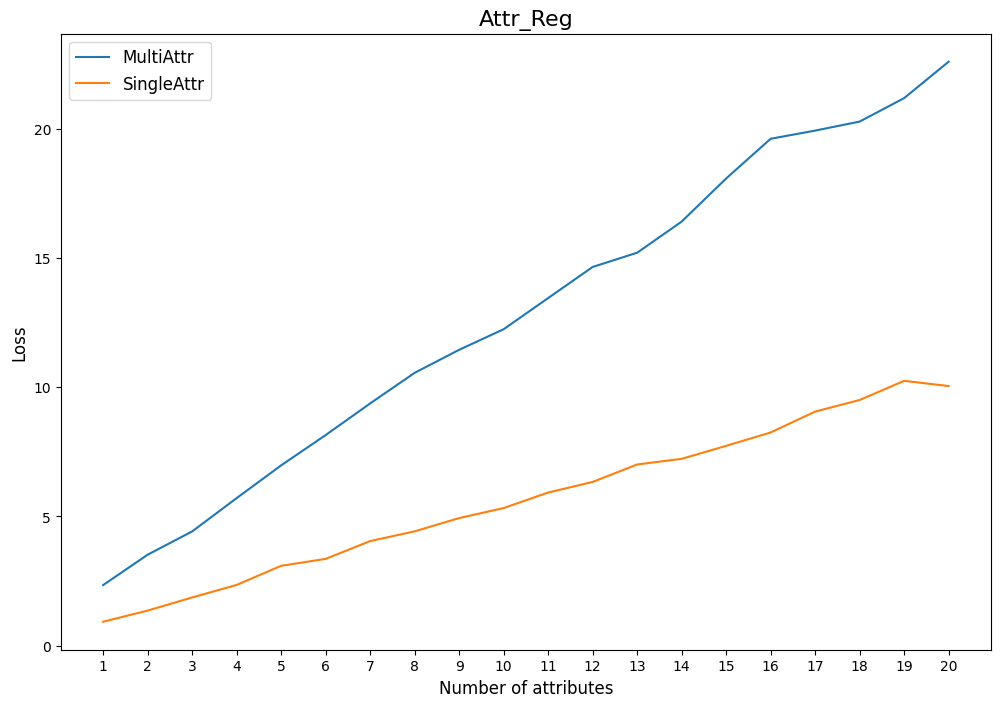
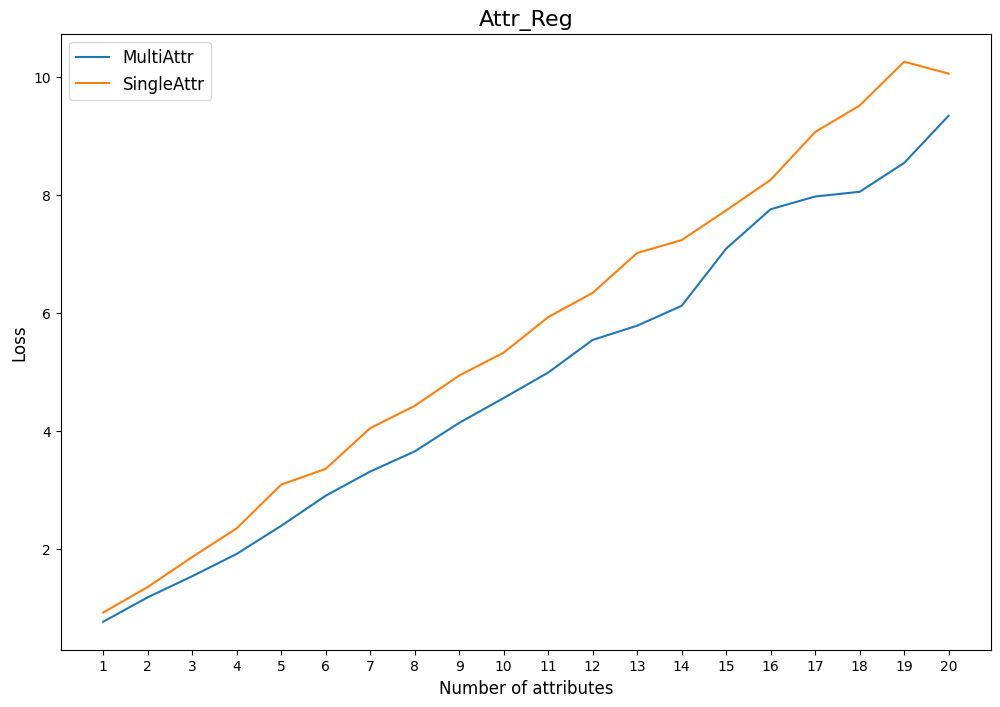
New training method: one attribute at a time

diff --git a/trainer.py b/trainer.py
@@ -121,15 +121,19 @@ class Trainer(nn.Module):
         # corr_vec = np.abs(self.corr_ma[attr_num:attr_num+1]) # Original, below is the experimental one
         # Enable this again for exp
         # attr_num = attr_num.cpu()
+
         corr_vec = np.abs(self.corr_ma[attr_num, :])
         corr_vec[corr_vec>=threshold] = 1
         return 1 - corr_vec
 
-    def get_correlation_multi(self, attr_nums, threshold=1):
+    def get_correlation_multi(self, attr_nums, threshold=1, coeffs=None):
         if self.corr_ma is None:
             lbls = np.load(self.label_file)
             self.corr_ma = np.corrcoef(lbls.transpose())
             self.corr_ma[np.isnan(self.corr_ma)] = 0
+
+        if coeffs is not None:
+            attr_nums = [a[0].item() for a in coeffs.nonzero()]
 
         corr_vec = np.abs(self.corr_ma[attr_nums, :])
         corr_vec[corr_vec>=threshold] = 1
@@ -140,7 +144,11 @@ class Trainer(nn.Module):
     def get_coeff(self, x):
         sign_0 = F.relu(x-0.5).sign()
         sign_1 = F.relu(0.5-x).sign()
-        return sign_0*(-x) + sign_1*(1-x)
+
+        coeffs = sign_0*(-x) + sign_1*(1-x)
+        attrs_idx = torch.randint(0, coeffs.shape[0], (1,), device=DEVICE)
+        coeffs[torch.arange(coeffs.shape[0], device=DEVICE) != attrs_idx] = 0
+        return coeffs
 
     def compute_loss(self, w, mask_input, n_iter):
         self.w_0 = w
@@ -228,8 +236,10 @@ class Trainer(nn.Module):
 
         # Get scaling factor
         coeff = self.get_coeff(attr_pb_0)
-        # coeff = torch.tensor([-1,-1]).to(device)
+        coeff_idx = coeff.nonzero(as_tuple=True)[0].tolist()
+
         target_pb = torch.clamp(attr_pb_0 + coeff, 0, 1).round()
+        target_pb = target_pb[coeff_idx]
 
         if 'alpha' in self.config and not self.config['alpha']:
             coeff = 2 * target_pb.type_as(attr_pb_0) - 1 
@@ -252,8 +262,9 @@ class Trainer(nn.Module):
         T_coeff = target_pb.size(0)/(target_pb.sum(0) + 1e-8)
         F_coeff = target_pb.size(0)/(target_pb.size(0) - target_pb.sum(0) + 1e-8)
         mask_pb = T_coeff.float() * target_pb + F_coeff.float() * (1-target_pb)
-        self.loss_pb = self.BCEloss(predict_lbl_1[torch.arange(predict_lbl_1.shape[0]), self.attr_nums],
-                                    target_pb, reduction='none')*mask_pb
+
+        pred_pb = predict_lbl_1[torch.arange(predict_lbl_1.shape[0]), self.attr_nums]
+        self.loss_pb = self.BCEloss(pred_pb[coeff_idx], target_pb, reduction='none')*mask_pb
         self.loss_pb = self.loss_pb.mean()
 
         # Latent code recon
@@ -261,7 +272,7 @@ class Trainer(nn.Module):
 
         # Reg loss
         threshold_val = 1 if 'corr_threshold' not in self.config else self.config['corr_threshold']
-        mask = torch.tensor(self.get_correlation_multi(self.attr_nums, threshold=threshold_val)).type_as(predict_lbl_0)
+        mask = torch.tensor(self.get_correlation_multi(self.attr_nums, threshold=threshold_val, coeffs=coeff)).type_as(predict_lbl_0)
         # mask = mask.repeat(predict_lbl_0.size(0), 1)  # We dont need to repeat the correlation mask in multi
         self.loss_reg = self.MSEloss(predict_lbl_1*mask, predict_lbl_0*mask)
         

diff --git a/evaluation.py b/evaluation.py
@@ -33,7 +33,7 @@ from constants import ATTR_TO_NUM
 
 
 parser = argparse.ArgumentParser()
-parser.add_argument('--config', type=str, default='eval', help='Path to the config file.')
+parser.add_argument('--config', type=str, default='new_train', help='Path to the config file.')
 parser.add_argument('--latent_path', type=str, default='./data/celebahq_dlatents_psp.npy', help='dataset path')
 parser.add_argument('--label_file', type=str, default='./data/celebahq_anno.npy', help='label file path')
 parser.add_argument('--stylegan_model_path', type=str, default='./pixel2style2pixel/pretrained_models/psp_ffhq_encode.pt', help='stylegan model path')
@@ -102,7 +102,7 @@ testdata_dir = './data/ffhq/'
 n_steps = 5
 scale = 2.0
 
-save_dir = './outputs/evaluation/'
+save_dir = './outputs/evaluation/new_train'
 os.makedirs(save_dir, exist_ok=True)
 
 log_dir = os.path.join(opts.log_path, opts.config) + '/'
@@ -292,7 +292,7 @@ def all_n_experiment(multi=True, single=True):
         losses_m = np.zeros((len(attrs), 4))
         for i in range(1,21):
             losses_m[i-1] = eval_multi_n(i)
-        np.save("outputs/evaluation/n_multi.npy",losses_m)
+        np.save("outputs/evaluation/n_multi_new.npy",losses_m)
 
     if single:
         losses_s = np.zeros((len(attrs), 4))
@@ -302,7 +302,7 @@ def all_n_experiment(multi=True, single=True):
 
 
 def plot_n_comparison():
-    multi = np.load("outputs/evaluation/n_multi.npy").T
+    multi = np.load("outputs/evaluation/n_multi_new.npy").T
     single = np.load("outputs/evaluation/n_single.npy").T
 
     loss_titles = ["Total", "Class", "Attr_Reg", "Identity_Recon"]
@@ -351,13 +351,14 @@ def plot_overall():
     ax.set_yscale('log')
     ax.legend()
 
-    plt.savefig(f"out_images/eval_overall.png", bbox_inches="tight")
+    plt.savefig(f"out_images/eval_overall_new.png", bbox_inches="tight")
     # plt.show()
 
 
 if __name__ == "__main__":
-    # plot_n_comparison()
-    plot_overall()
+    all_n_experiment(single=False)
+    plot_n_comparison()
+    # plot_overall()
 
 
 """

diff --git a/all_train.py b/all_train.py
@@ -34,7 +34,7 @@ from trainer import *
 
 
 parser = argparse.ArgumentParser()
-parser.add_argument('--config', type=str, default='eval', help='Path to the config file.')
+parser.add_argument('--config', type=str, default='new_train', help='Path to the config file.')
 parser.add_argument('--latent_path', type=str, default='./data/celebahq_dlatents_psp.npy', help='dataset path')
 parser.add_argument('--label_file', type=str, default='./data/celebahq_anno.npy', help='label file path')
 parser.add_argument('--stylegan_model_path', type=str, default='./pixel2style2pixel/pretrained_models/psp_ffhq_encode.pt', help='stylegan model path')

diff --git a/nets.py b/nets.py
@@ -172,8 +172,8 @@ class F_mapping_multi(nn.Module):
         x = x * coeffs
 
         # Scaling factor for inference only
-        if not training:
-            x = x * (1 + self.n_attributes) / 2
+        # if not training:
+        #     x = x * (1 + self.n_attributes) / 2
 
         x = x.reshape(1, -1)
 

diff --git a/ui.py b/ui.py
@@ -13,7 +13,7 @@ from trainer import Trainer
 from constants import LABEL_FILE, LATENT_PATH, LABEL_FILE, DEVICE, LOG_DIR, STYLEGAN, CLASSIFIER
 
 # experiment = "limit_scaled"
-experiment = "eval"
+experiment = "new_train"
 n_attrs = 20
 
 # Load basic config
